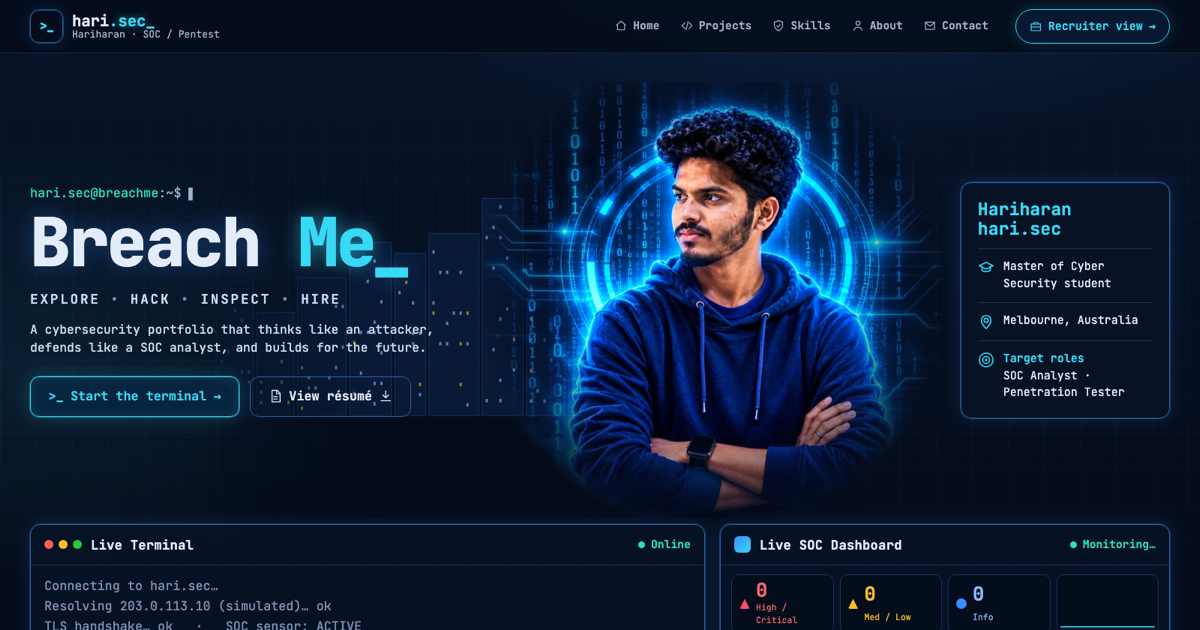
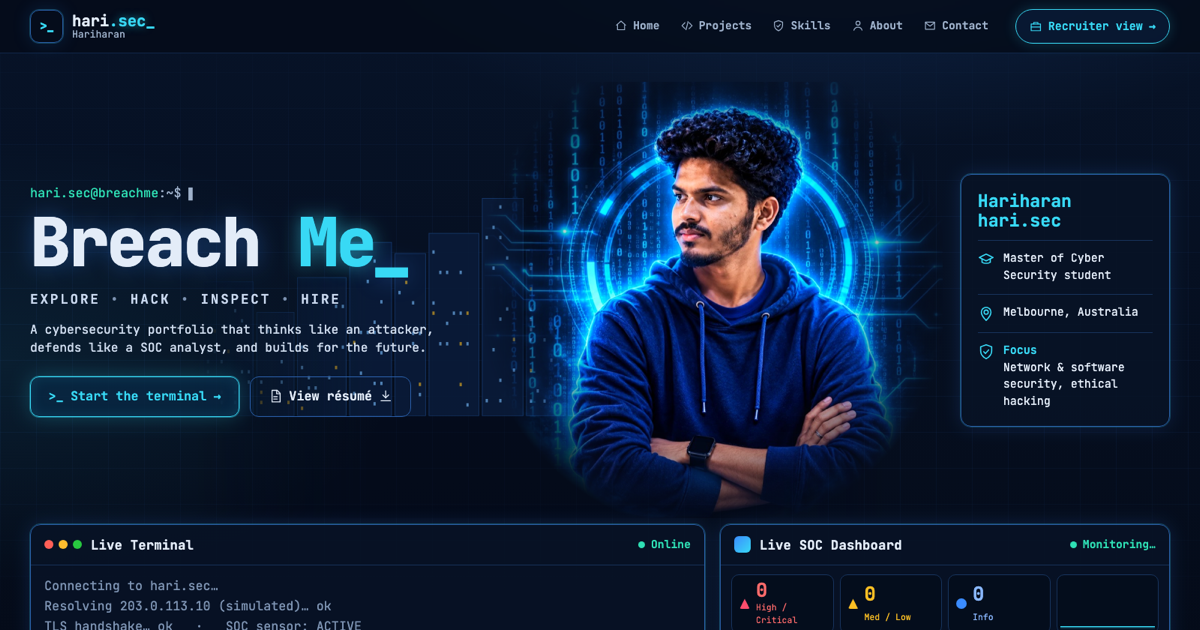
Remove target roles; show focus areas instead

Changed region(s): [[0.8017, 0.2714, 0.9867, 0.6937], [0.1233, 0.0302, 0.185, 0.0603]]

diff --git a/src/ui/hero.ts b/src/ui/hero.ts
@@ -44,7 +44,7 @@ export function topBar(onRecruiter: () => void, mode: 'hacker' | 'recruiter'): H
         'span',
         { class: 'brand-text', 'aria-hidden': 'true' },
         h('strong', {}, 'hari', h('span', { class: 'brand-dot' }, '.sec'), h('span', { class: 'blink brand-cursor' }, '_')),
-        h('small', {}, `${P.person.name} · SOC / Pentest`),
+        h('small', {}, P.person.name),
       ),
     ),
     nav,
@@ -178,7 +178,7 @@ function profileCard(): HTMLElement {
       {},
       h('li', {}, icon('cap'), P.person.level),
       h('li', {}, icon('pin'), P.person.location),
-      h('li', {}, icon('target'), h('span', {}, h('span', { class: 'pc-k' }, 'Target roles'), h('br'), P.person.targetRoles.slice(0, 2).join(' · '))),
+      h('li', {}, icon('shield'), h('span', {}, h('span', { class: 'pc-k' }, 'Focus'), h('br'), 'Network & software security, ethical hacking')),
     ),
   );
 }

diff --git a/src/main.ts b/src/main.ts
@@ -156,7 +156,7 @@ function render(anchor?: string): void {
   if (current === 'hacker') hackerMain ??= buildHacker();
   const body = current === 'hacker' ? [hackerMain!, footer()] : [renderRecruiter()];
   app.replaceChildren(skip, bar, ...body);
-  document.title = current === 'hacker' ? portfolio.meta.siteTitle : `${portfolio.person.name} — Résumé · ${portfolio.person.targetRoles.slice(0, 2).join(' / ')}`;
+  document.title = current === 'hacker' ? portfolio.meta.siteTitle : `${portfolio.person.name} — Résumé`;
   if (anchor) document.getElementById(anchor)?.scrollIntoView();
   else window.scrollTo(0, 0);
 }

diff --git a/src/terminal/filesystem.ts b/src/terminal/filesystem.ts
@@ -75,7 +75,7 @@ export function files(): VFile[] {
             entries: [
               {
                 title: `${p.person.name} (${p.person.handle})`,
-                meta: `${p.person.location} · ${p.person.targetRoles.join(' · ')}`,
+                meta: p.person.location,
                 text: p.person.summary,
               },
             ],
@@ -93,7 +93,6 @@ export function files(): VFile[] {
       read: () => [
         p.person.summary,
         '',
-        `Target roles: ${p.person.targetRoles.join(', ')}`,
         `Location: ${p.person.location}`,
         '',
         'Focus areas:',

diff --git a/src/data/portfolio.ts b/src/data/portfolio.ts
@@ -38,7 +38,7 @@ export const portfolio: Portfolio = {
       'uid=1337(hari.sec) gid=1337(defenders) groups=1337(defenders),31337(red-team)',
       '',
       'Name ........ Hariharan',
-      'Role ........ Cybersecurity student → SOC analyst / pentester',
+      'Role ........ Cybersecurity student',
       'Base ........ Melbourne, Australia',
       'Study ....... Master of Cyber Security @ RMIT University',
       'Background .. B.Tech Electronics & Computer Engineering, VIT Chennai',

diff --git a/src/recruiter/RecruiterView.ts b/src/recruiter/RecruiterView.ts
@@ -24,7 +24,7 @@ export function renderRecruiter(): HTMLElement {
         {},
         h('p', { class: 'rv-kicker' }, `${P.person.level} · ${P.person.location}`),
         h('h1', {}, P.person.name, h('span', { class: 'rv-handle' }, ` (${P.person.handle})`)),
-        h('p', { class: 'rv-roles' }, P.person.targetRoles.join(' · ')),
+        h('p', { class: 'rv-roles' }, 'Master of Cyber Security · RMIT University'),
       ),
       h(
         'div',
